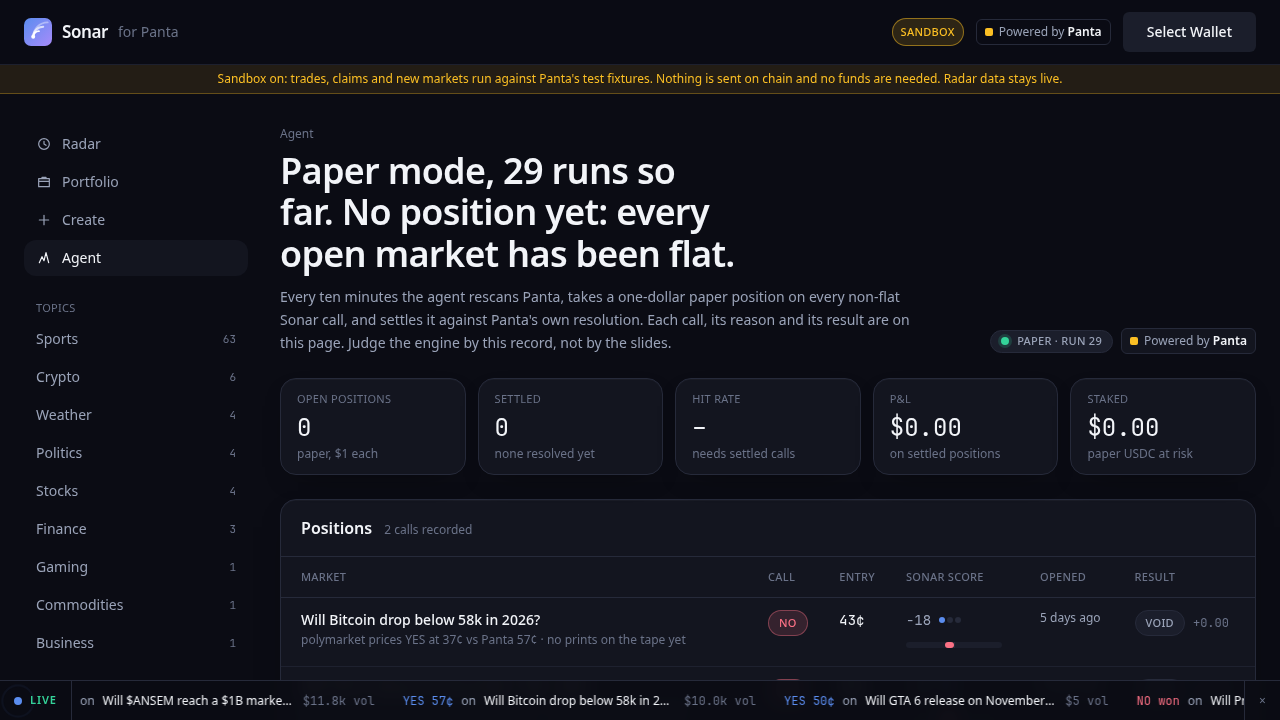
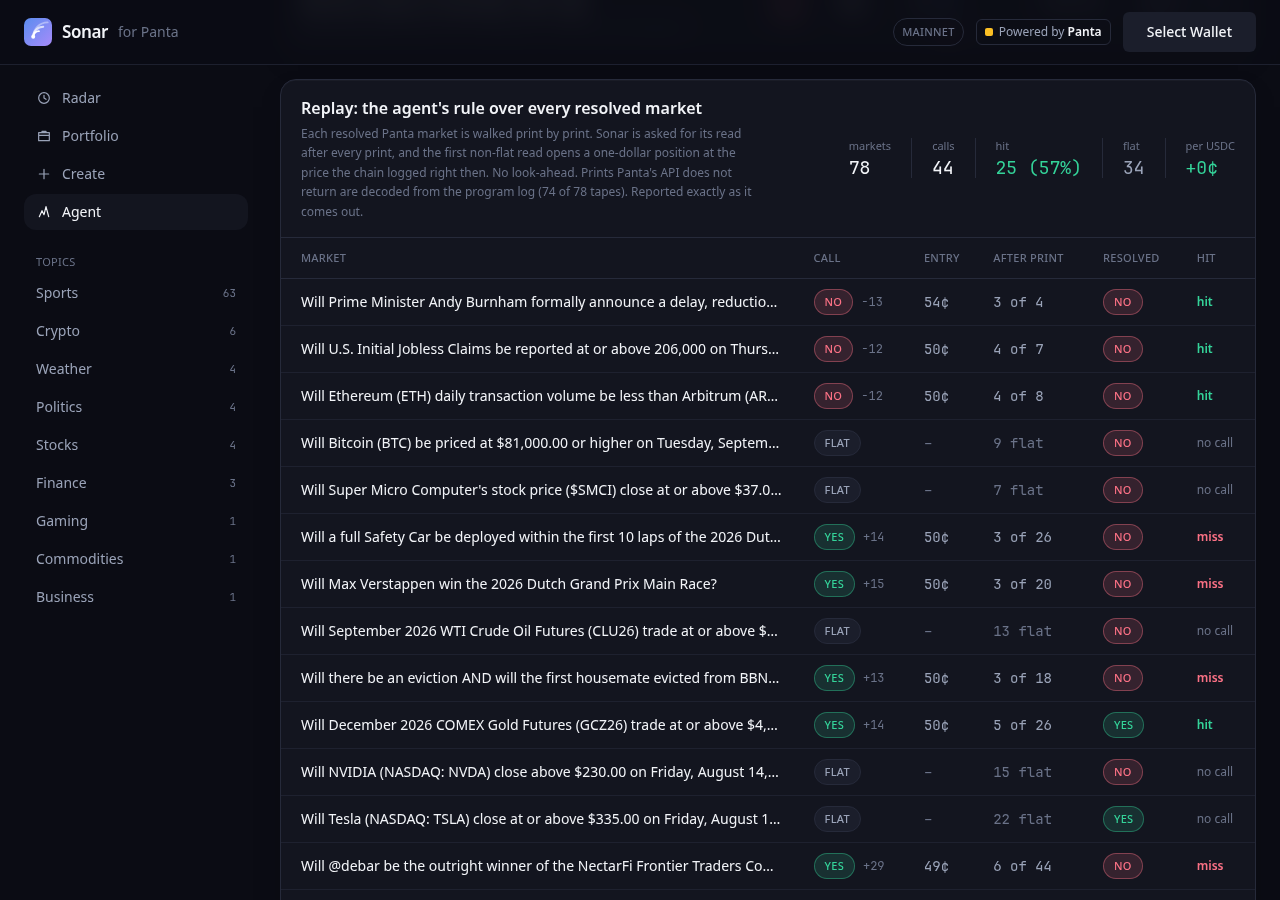
Screenshots of the board on Create, the Nigeria desk and the replay record
Taken from the live site: a board loaded and quoted in sandbox mode, the Radar's Nigeria
desk with this week's board, and the Agent page showing the walk-forward replay. The
README references the board and its doc.

diff --git a/README.md b/README.md
@@ -23,8 +23,14 @@ Every write is non-custodial: Panta builds instructions, the user's wallet signs
 
 <p>
 <img src="public/screens/market.png" width="49%" alt="Market page: Sonar read, cross-venue block, resolution rule, tape and trade panel" />
-<img src="public/screens/agent.png" width="49%" alt="Agent page: paper positions and the backtest over resolved Panta markets" />
+<img src="public/screens/agent.png" width="49%" alt="Agent page: the walk-forward replay over resolved Panta markets" />
 </p>
+<p>
+<img src="public/screens/create-board.png" width="49%" alt="Create page: a Nigeria board loaded as the draft and quoted in sandbox mode" />
+<img src="public/screens/nigeria-desk.png" width="24%" alt="Radar: the Nigeria desk with this week's board" />
+</p>
+
+The **Nigeria board** is six questions Nigerians argue about every week, each written as a complete Panta market (rule, sources, dates) in `src/lib/boards.ts`; one click loads it on Create, and all six have been through Panta's sandbox create flow. See [docs/NIGERIA-BOARD.md](docs/NIGERIA-BOARD.md).
 
 ## Zero-cost demo (sandbox mode)
 
